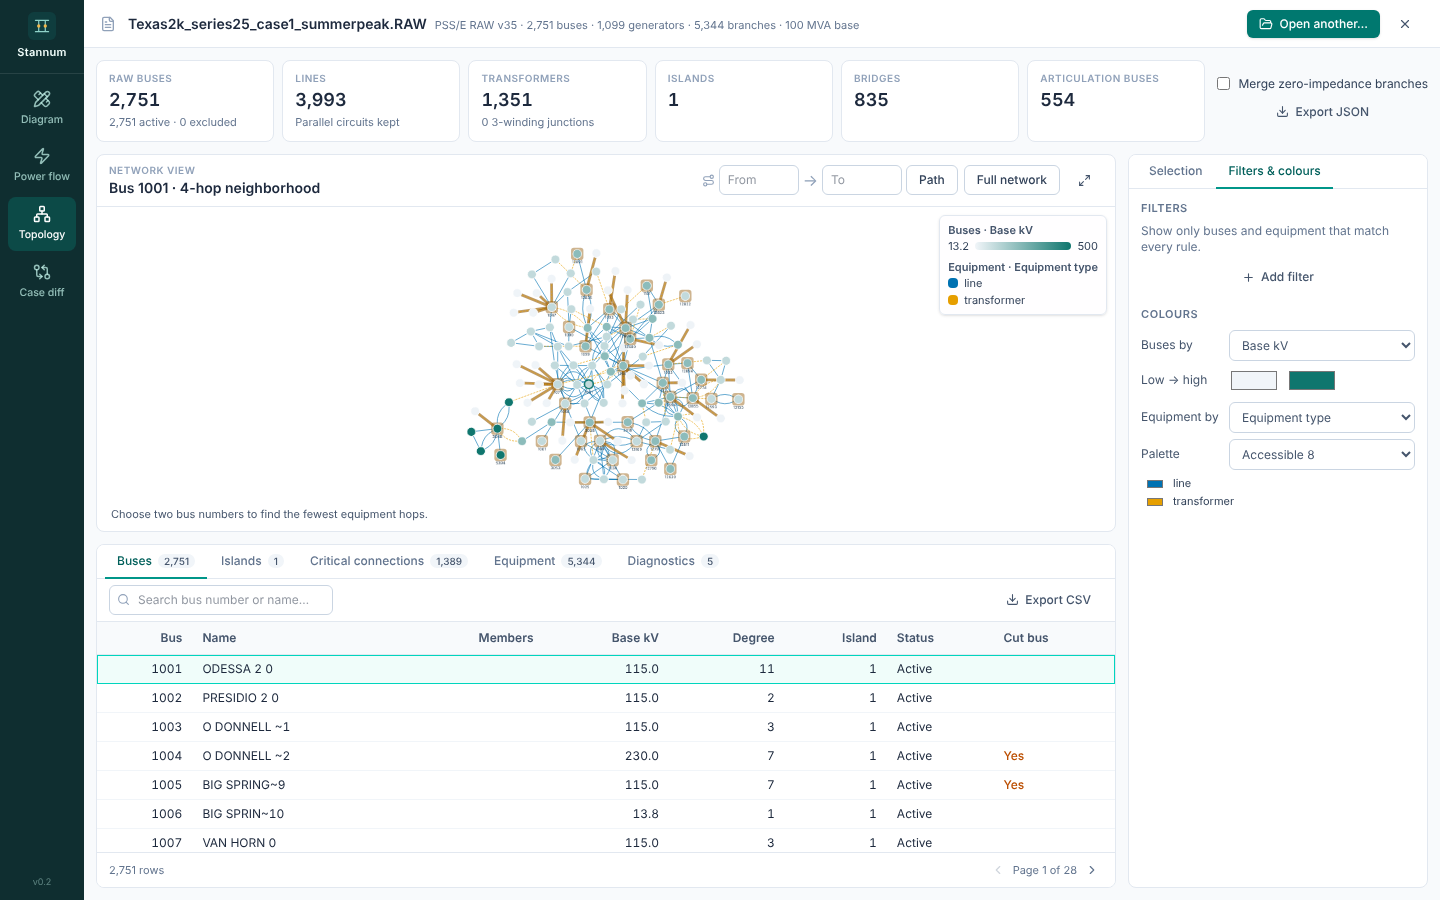
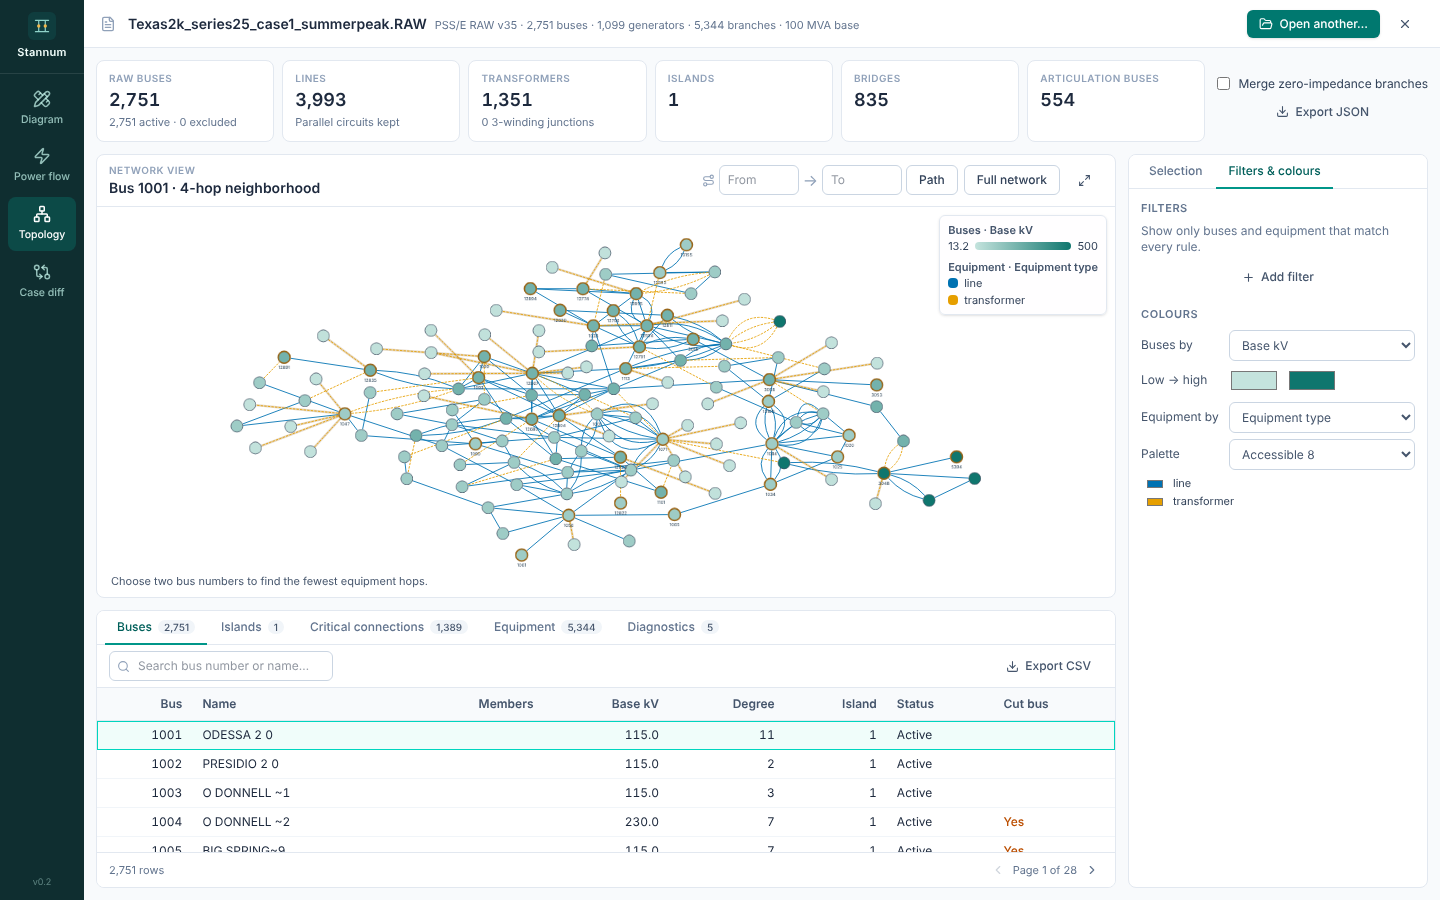
Topology: make the coloured graph readable
Under a colour rule, critical buses get a ring instead of a filled halo
that hid the colours, coloured buses are larger and outlined, and the
default gradient starts at a light teal that shows on white. The graph is
spread to the panel's shape and the network view is taller, so the graph
uses the space it has.

Claude-Session: https://claude.ai/code/session_01CAo3iy4cLUYfrutJspqNMi

diff --git a/src/modules/topology/NetworkGraph.tsx b/src/modules/topology/NetworkGraph.tsx
@@ -37,11 +37,32 @@ const style: StylesheetJson = [
   { selector: "edge.hovered", style: { width: 5 } },
   { selector: "node.label-hidden", style: { label: "" } },
   // Colour rules from the Filters & colours panel. Path and selection still win.
-  { selector: "node[fill]", style: { "background-color": "data(fill)" } },
-  { selector: "edge[stroke]", style: { "line-color": "data(stroke)" } },
+  // Coloured buses are a little larger and outlined so pale colours still read.
+  { selector: "node[fill]", style: { "background-color": "data(fill)", width: 30, height: 30, "border-color": "#334155", "border-width": 1.5 } },
+  { selector: "node.junction[fill]", style: { width: 18, height: 18 } },
+  { selector: "edge[stroke]", style: { "line-color": "data(stroke)", width: 2.2 } },
+  // Under a colour rule, critical buses and bridges get a ring instead of a
+  // filled halo, so the halo doesn't hide the colours.
+  { selector: "node.articulation[fill]", style: { "underlay-opacity": 0, "border-color": colors.finding, "border-width": 3.5 } },
+  { selector: "edge.bridge[stroke]", style: { "underlay-opacity": 0.25, "underlay-padding": 3 } },
   { selector: "node.path", style: { "background-color": colors.path } },
   { selector: "edge.path", style: { "line-color": colors.path } },
 ];
+
+/**
+ * Force layouts come out roughly square, while the view is wide. Spread the
+ * nodes horizontally (up to 2.5x) so the graph uses the whole panel.
+ */
+function stretchToFit(cy: Core, el: HTMLElement) {
+  const box = cy.nodes().boundingBox({});
+  if (!box.w || !box.h || !el.clientWidth || !el.clientHeight) return;
+  const want = el.clientWidth / el.clientHeight;
+  const factor = Math.min(2.5, want / (box.w / box.h));
+  if (factor <= 1.05) return;
+  const cx = box.x1 + box.w / 2;
+  cy.nodes().positions((n) => ({ x: cx + (n.position("x") - cx) * factor, y: n.position("y") }));
+  cy.fit(undefined, 30);
+}
 
 function refreshLabels(cy: Core) {
   const hide = cy.zoom() < 0.6;
@@ -113,6 +134,7 @@ export function NetworkGraph({
       maxZoom: 4,
       wheelSensitivity: 0.25,
     });
+    stretchToFit(cy, container.current);
     cy.on("tap", "node", (ev) => inspect.current({ bus: ev.target.data("bus") ?? null, equipment: ev.target.data("equipment") ?? null }));
     cy.on("tap", "edge", (ev) => inspect.current({ bus: null, equipment: ev.target.data("equipment") }));
     cy.on("mouseover", "node, edge", (ev) => ev.target.addClass("hovered"));

diff --git a/src/modules/topology/fields/field-colors.ts b/src/modules/topology/fields/field-colors.ts
@@ -37,7 +37,7 @@ const fields:Record<FieldTarget,FieldDefinition[]>={bus:BUS_FIELDS,equipment:EQU
 const paletteIds=new Set(COLOR_PALETTES.map(palette=>palette.id));
 
 export function defaultColorSettings():ColorSettings {
-  const scheme=():ColorScheme=>({field:'',palette:'categorical-8',colors:{},low:'#f1f5f9',high:'#0f766e',min:null,max:null,missing:'#cbd5e1',mixed:'#8b5cf6'});
+  const scheme=():ColorScheme=>({field:'',palette:'categorical-8',colors:{},low:'#c4e3dd',high:'#0f766e',min:null,max:null,missing:'#cbd5e1',mixed:'#8b5cf6'});
   return {bus:scheme(),equipment:scheme()};
 }
 

diff --git a/src/modules/topology/TopologyModule.tsx b/src/modules/topology/TopologyModule.tsx
@@ -469,7 +469,7 @@ export function TopologyModule({ active }: { active: boolean }) {
           <strong>Topology coverage is limited.</strong> {warnings.map((d) => `${d.message} (${d.section})`).join(" · ")}
         </Notice>
       )}
-      <div className="flex-1 min-h-0 grid grid-cols-[1fr_300px] grid-rows-[minmax(0,1.1fr)_minmax(0,1fr)] gap-3">
+      <div className="flex-1 min-h-0 grid grid-cols-[1fr_300px] grid-rows-[minmax(0,1.6fr)_minmax(0,1fr)] gap-3">
         <Panel
           eyebrow="Network view"
           title={scope?.title ?? "Network"}
